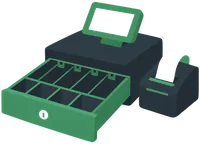
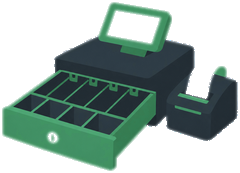
Собрать empty/error webp без светлой каймы и тёмного дыма.
Unmatte + feather по alpha; на тёмном фоне иллюстрации не светятся и не «дымят».

diff --git a/frontend/src/shared/ui/Illustration.tsx b/frontend/src/shared/ui/Illustration.tsx
@@ -18,29 +18,33 @@ export type IllustrationName =
   | 'state-no-debts'
   | 'state-telegram-confirm'
 
-/** Пиксельные размеры @1x (длинная сторона ≈ 200) — чтобы зарезервировать место
+/** Пиксельные размеры @1x (длинная сторона ≈ 240) — чтобы зарезервировать место
  * и не прыгала вёрстка до загрузки. Для PNG без webp — натуральные пропорции. */
 export const ILLUSTRATION_SIZES: Record<IllustrationName, { w: number; h: number }> = {
   'empty-archive': { w: 200, h: 195 },
   'empty-box': { w: 200, h: 185 },
   'empty-cart': { w: 200, h: 160 },
-  'empty-clients': { w: 200, h: 113 },
-  'empty-reviews': { w: 200, h: 200 },
-  'empty-sales': { w: 200, h: 144 },
+  'empty-clients': { w: 240, h: 131 },
+  'empty-reviews': { w: 240, h: 236 },
+  'empty-sales': { w: 240, h: 173 },
   'empty-shelf': { w: 169, h: 200 },
-  'empty-stock': { w: 200, h: 124 },
-  'error-403-blocked': { w: 200, h: 187 },
-  'error-404-not-found': { w: 200, h: 193 },
-  'state-no-debts': { w: 200, h: 138 },
-  'state-telegram-confirm': { w: 200, h: 172 },
+  'empty-stock': { w: 240, h: 150 },
+  'error-403-blocked': { w: 240, h: 224 },
+  'error-404-not-found': { w: 240, h: 232 },
+  'state-no-debts': { w: 240, h: 165 },
+  'state-telegram-confirm': { w: 240, h: 206 },
 }
 
 /** Иллюстрации, для которых есть webp @1x + @2x в public/illustrations. */
 const WEBP_NAMES = new Set<IllustrationName>([
   'empty-clients',
+  'empty-reviews',
   'empty-sales',
   'empty-stock',
+  'error-403-blocked',
+  'error-404-not-found',
   'state-no-debts',
+  'state-telegram-confirm',
 ])
 
 interface IllustrationProps {
@@ -50,8 +54,8 @@ interface IllustrationProps {
   className?: string
 }
 
-/** Иллюстрация empty/error: webp с retina-srcset где есть, иначе PNG;
- * в тёмной теме — светлая подложка, чтобы рисунок не тонул в фоне. */
+/** Иллюстрация empty/error: webp с retina-srcset где есть, иначе PNG.
+ * В тёмной теме без белой подложки — рисунок на --bg, контраст через drop-shadow. */
 export function Illustration({ name, size = 160, className }: IllustrationProps) {
   const { w, h } = ILLUSTRATION_SIZES[name]
   const scale = size / Math.max(w, h)

diff --git a/frontend/src/shared/ui/Illustration.module.css b/frontend/src/shared/ui/Illustration.module.css
@@ -13,11 +13,10 @@
   object-fit: contain;
 }
 
-/* В тёмной теме иллюстрации (часто на светлом холсте) проваливаются в фон —
-   лёгкая светлая подложка возвращает контраст, как у карточек empty-state. */
-:global([data-theme='dark']) .wrap {
-  background: color-mix(in srgb, #ffffff 92%, var(--bg));
-  border-radius: 20px;
-  padding: 12px;
-  box-sizing: content-box;
+/*
+ * Тёмная тема: мягкая тёмная тень — силуэт чуть «садится» на --bg,
+ * без светлого ореола.
+ */
+:global([data-theme='dark']) .img {
+  filter: drop-shadow(0 2px 8px rgba(0, 0, 0, 0.5));
 }

diff --git a/frontend/scripts/build_images.py b/frontend/scripts/build_images.py
@@ -3,8 +3,9 @@
 
 Читает исходники из frontend/design-src/illustrations/*.png:
   - убирает фон (прозрачность, почти белый, серая «шахматка» Photoshop);
+  - снимает светлую кайму (fringe) на краях после вырезания с белого;
   - обрезает пустые поля;
-  - пишет name.webp (длинная сторона 200px) и name@2x.webp (400px).
+  - пишет name.webp (длинная сторона 240px) и name@2x.webp (480px).
 
 Запуск из корня репо или из frontend/:
   python3 frontend/scripts/build_images.py
@@ -16,16 +17,27 @@ from __future__ import annotations
 import sys
 from pathlib import Path
 
-from PIL import Image
+from PIL import Image, ImageFilter
 
 ROOT = Path(__file__).resolve().parents[1]  # frontend/
 SRC_DIR = ROOT / "design-src" / "illustrations"
 OUT_DIR = ROOT / "public" / "illustrations"
 
-SIZE_1X = 200
-SIZE_2X = 400
-WHITE_THRESH = 250
+SIZE_1X = 240
+SIZE_2X = 480
+# Лёгкий feather края (blur alpha) — мягче «ножниц», без тёмного дыма
+SOFTEN_1X = 1.1
+SOFTEN_2X = 1.4
+WHITE_THRESH = 248
 ALPHA_THRESH = 8
+# Байк-ин светлая тень/glow: низкий alpha + серый/светлый, не antialias объекта
+SOFT_GLOW_ALPHA = 70
+SOFT_GLOW_LUMA = 140
+SOFT_GLOW_SAT = 40
+
+
+def luma(r: int, g: int, b: int) -> float:
+    return 0.2126 * r + 0.7152 * g + 0.0722 * b
 
 
 def is_backdrop(r: int, g: int, b: int, a: int) -> bool:
@@ -35,7 +47,7 @@ def is_backdrop(r: int, g: int, b: int, a: int) -> bool:
     if r >= WHITE_THRESH and g >= WHITE_THRESH and b >= WHITE_THRESH:
         return True
     mx, mn = max(r, g, b), min(r, g, b)
-    if mx - mn <= 8 and mn >= 220:
+    if mx - mn <= 10 and mn >= 215:
         return True
     return False
 
@@ -48,7 +60,229 @@ def remove_backdrop(rgba: Image.Image) -> Image.Image:
         for x in range(w):
             r, g, b, a = pixels[x, y]
             if is_backdrop(r, g, b, a):
-                pixels[x, y] = (r, g, b, 0)
+                # RGB=0 при a=0 — иначе LANCZOS смешает белый → светлая кайма
+                pixels[x, y] = (0, 0, 0, 0)
+    return out
+
+
+def premultiply(rgba: Image.Image) -> Image.Image:
+    out = rgba.copy()
+    px = out.load()
+    w, h = out.size
+    for y in range(h):
+        for x in range(w):
+            r, g, b, a = px[x, y]
+            if a == 0:
+                px[x, y] = (0, 0, 0, 0)
+            elif a < 255:
+                f = a / 255.0
+                px[x, y] = (int(round(r * f)), int(round(g * f)), int(round(b * f)), a)
+    return out
+
+
+def unpremultiply(rgba: Image.Image) -> Image.Image:
+    out = rgba.copy()
+    px = out.load()
+    w, h = out.size
+    for y in range(h):
+        for x in range(w):
+            r, g, b, a = px[x, y]
+            if a == 0:
+                px[x, y] = (0, 0, 0, 0)
+            elif a < 255:
+                f = 255.0 / a
+                px[x, y] = (
+                    min(255, int(round(r * f))),
+                    min(255, int(round(g * f))),
+                    min(255, int(round(b * f))),
+                    a,
+                )
+    return out
+
+
+def zero_transparent_rgb(rgba: Image.Image) -> Image.Image:
+    out = rgba.copy()
+    px = out.load()
+    w, h = out.size
+    for y in range(h):
+        for x in range(w):
+            r, g, b, a = px[x, y]
+            if a <= ALPHA_THRESH:
+                px[x, y] = (0, 0, 0, 0)
+    return out
+
+
+def unmatte_white(rgba: Image.Image) -> Image.Image:
+    """Восстановить цвет объекта из антиалиаса поверх белого. Alpha не трогаем."""
+    out = rgba.copy()
+    px = out.load()
+    w, h = out.size
+    for y in range(h):
+        for x in range(w):
+            r, g, b, a = px[x, y]
+            if a <= ALPHA_THRESH:
+                px[x, y] = (0, 0, 0, 0)
+                continue
+            if a >= 250:
+                continue
+            af = a / 255.0
+
+            def ch(c: int) -> int:
+                f = (c - (1.0 - af) * 255.0) / af
+                return max(0, min(255, int(round(f))))
+
+            px[x, y] = (ch(r), ch(g), ch(b), a)
+    return out
+
+
+def remove_soft_glow(rgba: Image.Image) -> Image.Image:
+    """Только байк-ин светлые тени (серый low-alpha), без срезания AA объекта."""
+    out = rgba.copy()
+    px = out.load()
+    w, h = out.size
+    for y in range(h):
+        for x in range(w):
+            r, g, b, a = px[x, y]
+            if a <= ALPHA_THRESH or a > SOFT_GLOW_ALPHA:
+                continue
+            sat = max(r, g, b) - min(r, g, b)
+            if sat <= SOFT_GLOW_SAT and luma(r, g, b) >= SOFT_GLOW_LUMA:
+                px[x, y] = (0, 0, 0, 0)
+    return out
+
+
+def _neighbors8(x: int, y: int, w: int, h: int):
+    for dy in (-1, 0, 1):
+        for dx in (-1, 0, 1):
+            if dx == 0 and dy == 0:
+                continue
+            nx, ny = x + dx, y + dy
+            if 0 <= nx < w and 0 <= ny < h:
+                yield nx, ny
+
+
+def recolor_light_rim(rgba: Image.Image) -> Image.Image:
+    """Светлый ободок у края → цвет более тёмных соседей. Alpha не трогаем (нет «ножниц»)."""
+    out = rgba.copy()
+    px = out.load()
+    src = rgba.copy()
+    sp = src.load()
+    w, h = out.size
+    for y in range(h):
+        for x in range(w):
+            r, g, b, a = sp[x, y]
+            if a <= ALPHA_THRESH:
+                continue
+            L = luma(r, g, b)
+            if L < 145:
+                continue
+            touches_clear = any(
+                sp[nx, ny][3] <= ALPHA_THRESH for nx, ny in _neighbors8(x, y, w, h)
+            )
+            if not touches_clear:
+                continue
+            acc_r = acc_g = acc_b = n = 0
+            for nx, ny in _neighbors8(x, y, w, h):
+                rr, gg, bb, aa = sp[nx, ny]
+                if aa < 180:
+                    continue
+                if luma(rr, gg, bb) <= min(L - 20, 140):
+                    acc_r += rr
+                    acc_g += gg
+                    acc_b += bb
+                    n += 1
+            if n:
+                px[x, y] = (acc_r // n, acc_g // n, acc_b // n, a)
+            elif a < 200 and L >= 190:
+                # нет опоры — гасим только явный светлый полупрозрачный мусор
+                px[x, y] = (0, 0, 0, 0)
+    return out
+
+
+def clean_edges(rgba: Image.Image) -> Image.Image:
+    """Unmatte + soft-glow + перекраска светлого ободка. Плавный AA сохраняется."""
+    return kill_dark_smoke(
+        zero_transparent_rgb(
+            recolor_light_rim(remove_soft_glow(unmatte_white(rgba)))
+        )
+    )
+
+
+def kill_resize_fringe(rgba: Image.Image) -> Image.Image:
+    """После даунскейла: только явный белый мусор с низким alpha, без срезания AA."""
+    out = rgba.copy()
+    px = out.load()
+    w, h = out.size
+    for y in range(h):
+        for x in range(w):
+            r, g, b, a = px[x, y]
+            if a <= ALPHA_THRESH:
+                px[x, y] = (0, 0, 0, 0)
+                continue
+            if a > 60:
+                continue
+            sat = max(r, g, b) - min(r, g, b)
+            if luma(r, g, b) >= 200 and sat <= 55:
+                px[x, y] = (0, 0, 0, 0)
+    return out
+
+
+def soften(rgba: Image.Image, radius: float) -> Image.Image:
+    """Смягчить силуэт через blur alpha + подтянуть RGB с соседей.
+
+    Не используем blur всего premul-RGBA: он размазывает тёмные объекты
+    в «дым» (видно у звёздочек state-no-debts на светлом фоне).
+    """
+    if radius <= 0:
+        return rgba
+    src = zero_transparent_rgb(rgba)
+    alpha = src.getchannel("A").filter(ImageFilter.GaussianBlur(radius=radius))
+    out = src.copy()
+    sp = src.load()
+    op = out.load()
+    ap = alpha.load()
+    w, h = out.size
+    for y in range(h):
+        for x in range(w):
+            r, g, b, a0 = sp[x, y]
+            a1 = ap[x, y]
+            if a1 <= ALPHA_THRESH:
+                op[x, y] = (0, 0, 0, 0)
+                continue
+            if a0 > ALPHA_THRESH:
+                # Было содержимое — оставляем цвет, берём смягчённую alpha
+                op[x, y] = (r, g, b, a1)
+                continue
+            # Новая полупрозрачность снаружи: цвет с непрозрачных соседей
+            acc_r = acc_g = acc_b = n = 0
+            for nx, ny in _neighbors8(x, y, w, h):
+                rr, gg, bb, aa = sp[nx, ny]
+                if aa >= 180:
+                    acc_r += rr
+                    acc_g += gg
+                    acc_b += bb
+                    n += 1
+            if n:
+                op[x, y] = (acc_r // n, acc_g // n, acc_b // n, a1)
+            else:
+                op[x, y] = (0, 0, 0, 0)
+    return kill_dark_smoke(zero_transparent_rgb(out))
+
+
+def kill_dark_smoke(rgba: Image.Image) -> Image.Image:
+    """Убрать тёмный «дым» — низкий alpha + почти чёрный (артефакт blur/теней)."""
+    out = rgba.copy()
+    px = out.load()
+    w, h = out.size
+    for y in range(h):
+        for x in range(w):
+            r, g, b, a = px[x, y]
+            if a <= ALPHA_THRESH or a >= 140:
+                continue
+            L = luma(r, g, b)
+            sat = max(r, g, b) - min(r, g, b)
+            if L <= 55 or (L <= 85 and sat <= 25):
+                px[x, y] = (0, 0, 0, 0)
     return out
 
 
@@ -67,7 +301,8 @@ def crop_content(rgba: Image.Image) -> Image.Image:
             max_y = max(max_y, y)
     if max_x < 0:
         return rgba
-    pad = 4
+    # Запас под feather после resize
+    pad = 12
     return rgba.crop(
         (
             max(0, min_x - pad),
@@ -91,11 +326,19 @@ def process(src: Path) -> dict:
     name = src.stem
     im = Image.open(src)
     had_alpha = im.mode in ("RGBA", "LA", "PA") or ("transparency" in im.info)
-    rgba = crop_content(remove_backdrop(im.convert("RGBA")))
+    # Unmatte только на полном размере — после resize alpha уже корректный,
+    # повторный unmatte даёт «ножницы» (жёсткий край).
+    rgba = crop_content(clean_edges(remove_backdrop(im.convert("RGBA"))))
     out_1x = OUT_DIR / f"{name}.webp"
     out_2x = OUT_DIR / f"{name}@2x.webp"
-    fit(rgba, SIZE_1X).save(out_1x, "WEBP", quality=82, method=6)
-    fit(rgba, SIZE_2X).save(out_2x, "WEBP", quality=82, method=6)
+    premul = premultiply(rgba)
+    for path, size in ((out_1x, SIZE_1X), (out_2x, SIZE_2X)):
+        radius = SOFTEN_1X if size == SIZE_1X else SOFTEN_2X
+        scaled = soften(
+            kill_resize_fringe(recolor_light_rim(unpremultiply(fit(premul, size)))),
+            radius,
+        )
+        scaled.save(path, "WEBP", lossless=True, exact=True)
     return {
         "name": name,
         "src": f"{rgba.size[0]}x{rgba.size[1]}",
